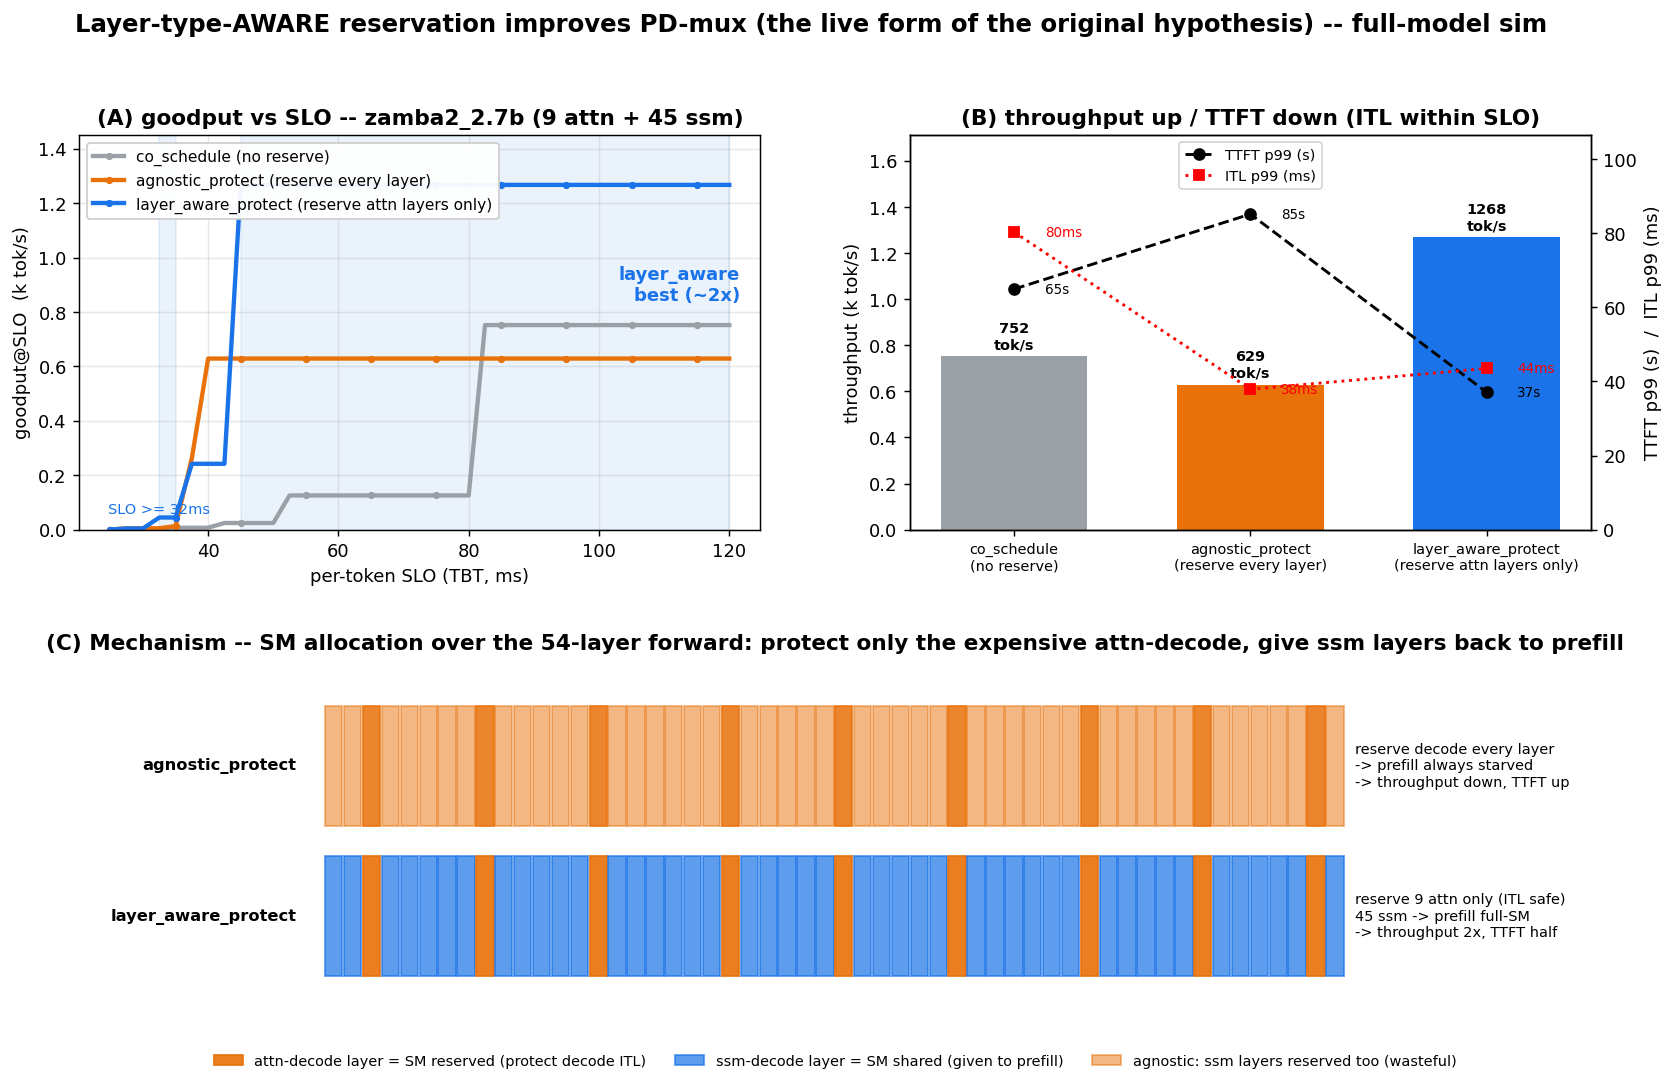
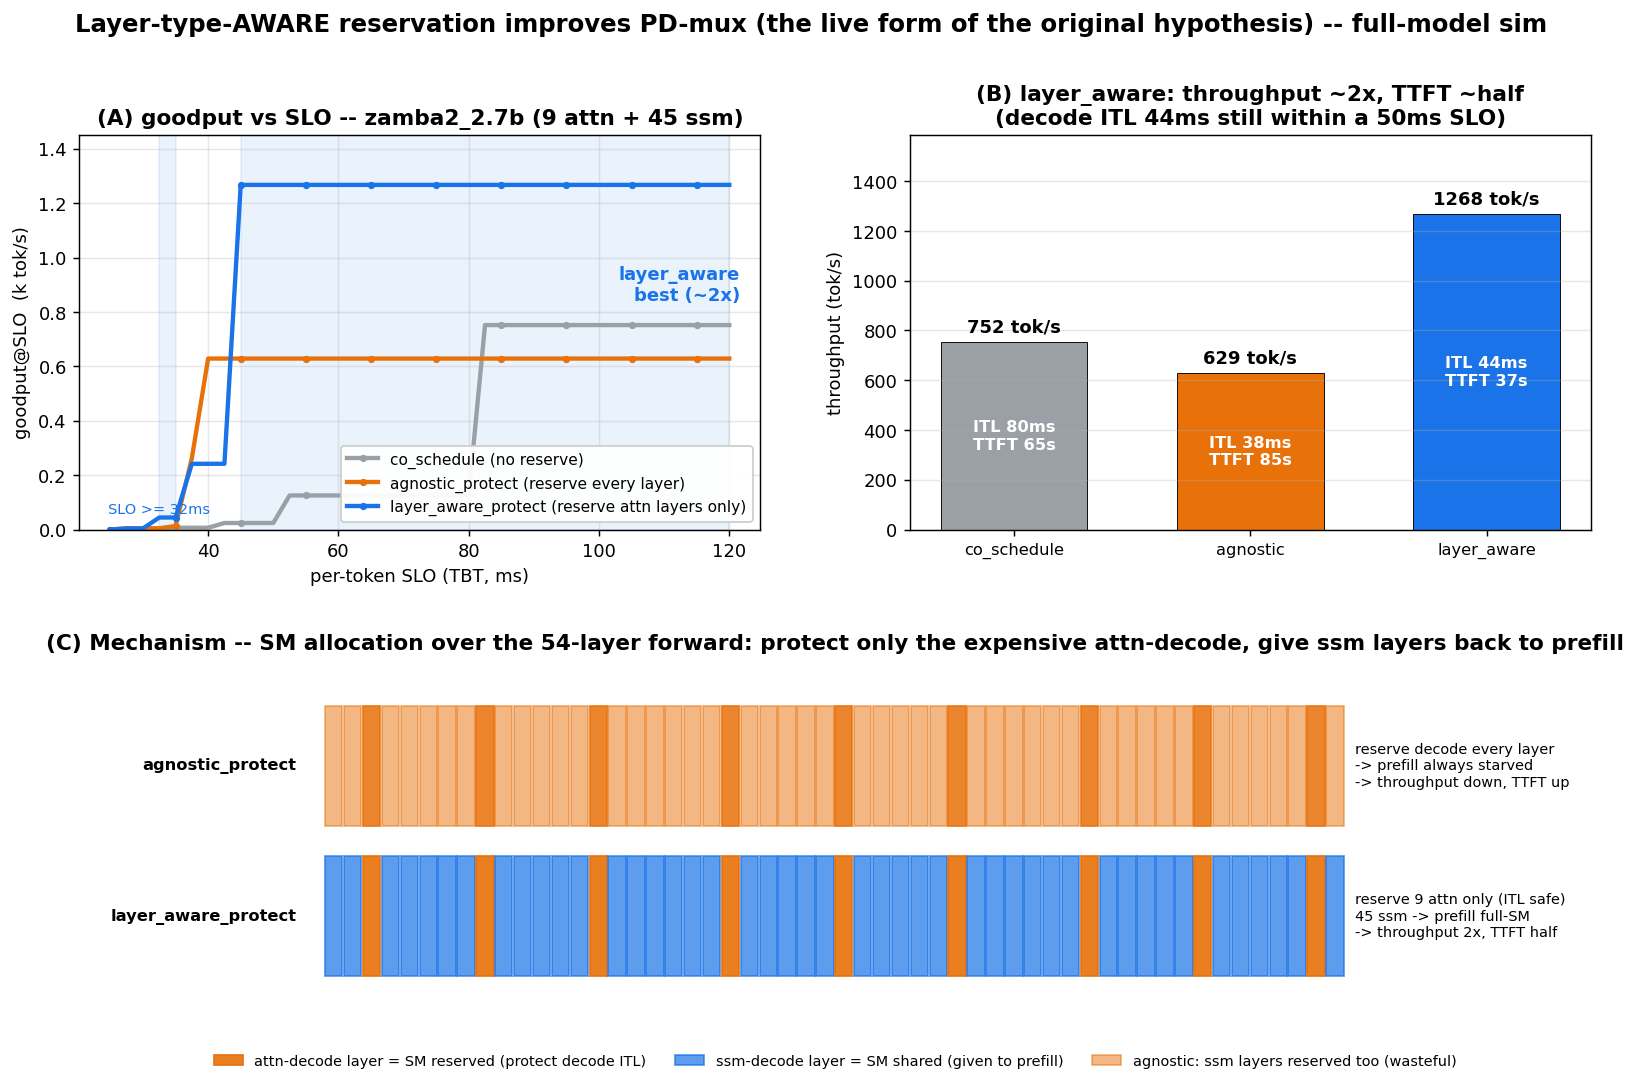
Clean up layer_aware_result figure (visibility)
Panel A: legend was covering the blue layer_aware curve/plateau (upper-left) -> moved to the
empty band at lower-right; data no longer obscured.
Panel B: replaced the overloaded twin-axis (throughput bars + TTFT line + ITL line, 3 units)
with a single-axis throughput bar chart annotating ITL/TTFT inside each bar (white). Much more
readable. Updated narrative critique (B no longer "overloaded").

diff --git a/workspace/characterization/experiments/e6_queue_sim/make_layer_aware_figs.py b/workspace/characterization/experiments/e6_queue_sim/make_layer_aware_figs.py
@@ -84,33 +84,28 @@ if win.any():
 axA.set_xlabel("per-token SLO (TBT, ms)")
 axA.set_ylabel("goodput@SLO  (k tok/s)")
 axA.set_title("(A) goodput vs SLO -- zamba2_2.7b (9 attn + 45 ssm)", fontweight="bold")
-axA.legend(fontsize=8.5, loc="upper left", framealpha=0.95)
+axA.legend(fontsize=8.5, loc="lower right", framealpha=0.95)   # lower-right is the empty band
 axA.grid(alpha=0.3)
 axA.set_ylim(0, 1.45)
 
-# ---- Panel B: tradeoff bars ----
+# ---- Panel B: single-axis throughput bars + ITL/TTFT annotated (no twin-axis) ----
 axB = fig.add_subplot(gs[0, 1])
 x = np.arange(len(POLICIES))
-thr = [summ[p]["throughput_tok_s"] / 1000 for p in POLICIES]
+thr = [summ[p]["throughput_tok_s"] for p in POLICIES]
 ttft = [summ[p]["ttft_p99"] / 1000 for p in POLICIES]
 itl = [summ[p]["itl_p99"] for p in POLICIES]
-w = 0.62
-b = axB.bar(x, thr, w, color=[COL[p] for p in POLICIES])
-axB.set_ylabel("throughput (k tok/s)")
-axB.set_xticks(x); axB.set_xticklabels([LABELS[p] for p in POLICIES], fontsize=8)
-axB.set_title("(B) throughput up / TTFT down (ITL within SLO)", fontweight="bold")
+short = {"co_schedule": "co_schedule", "agnostic_protect": "agnostic", "layer_aware_protect": "layer_aware"}
+bars = axB.bar(x, thr, 0.62, color=[COL[p] for p in POLICIES], edgecolor="k", linewidth=0.5)
 for i, p in enumerate(POLICIES):
-    axB.text(i, thr[i] + 0.02, f"{thr[i]*1000:.0f}\ntok/s", ha="center", va="bottom", fontsize=8, fontweight="bold")
-axB.set_ylim(0, max(thr) * 1.35)
-axB2 = axB.twinx()
-axB2.plot(x, ttft, "k--o", lw=1.6, ms=6, label="TTFT p99 (s)")
-axB2.plot(x, itl, "r:s", lw=1.6, ms=6, label="ITL p99 (ms)")
-for i in range(len(POLICIES)):
-    axB2.text(i + 0.13, ttft[i], f"{ttft[i]:.0f}s", color="k", fontsize=7.5, va="center")
-    axB2.text(i + 0.13, itl[i], f"{itl[i]:.0f}ms", color="r", fontsize=7.5, va="center")
-axB2.set_ylabel("TTFT p99 (s)  /  ITL p99 (ms)")
-axB2.legend(fontsize=8, loc="upper center")
-axB2.set_ylim(0, max(max(ttft), max(itl)) * 1.25)
+    axB.text(i, thr[i] + 25, f"{thr[i]:.0f} tok/s", ha="center", va="bottom", fontsize=10, fontweight="bold")
+    axB.text(i, thr[i] * 0.5, f"ITL {itl[i]:.0f}ms\nTTFT {ttft[i]:.0f}s", ha="center", va="center",
+             fontsize=9, color="white", fontweight="bold")
+axB.set_xticks(x); axB.set_xticklabels([short[p] for p in POLICIES], fontsize=9)
+axB.set_ylabel("throughput (tok/s)")
+axB.set_ylim(0, max(thr) * 1.25)
+axB.set_title("(B) layer_aware: throughput ~2x, TTFT ~half\n(decode ITL 44ms still within a 50ms SLO)",
+              fontweight="bold")
+axB.grid(axis="y", alpha=0.3)
 
 # ---- Panel C: mechanism (per-layer SM allocation) ----
 axC = fig.add_subplot(gs[1, :])

diff --git a/reports/figure_narrative_critique.md b/reports/figure_narrative_critique.md
@@ -30,7 +30,7 @@
 | 그림 | 흐름 위치 | 보여주는 지표 | 차트 형태 | **형태 적합성 (비판)** |
 |---|---|---|---|---|
 | `layer_aware_result` (A) goodput-vs-SLO | S3 주결과 | 연속 SLO 스윕의 goodput | **선그래프 + 우위구간 음영** | ✅ **최적.** 연속 독립변수(SLO)→선이 맞고, 음영으로 우위 영역 명시. 논문 main figure감. |
-| `layer_aware_result` (B) tradeoff | S3 보조 | throughput·TTFT·ITL | 막대+쌍축 2선 | ⚠ **과적재.** 한 패널에 3지표(단위 다름: tok/s·s·ms)를 막대+쌍축으로 → 가독성 낮음. **분리하거나 정규화 권고.** |
+| `layer_aware_result` (B) tradeoff | S3 보조 | throughput(+ITL/TTFT 주석) | 단일축 막대 | ✅ **정리됨**(쌍축 제거). throughput 막대에 ITL/TTFT를 주석으로 → 단일축 가독성 확보. |
 | `layer_aware_result` (C) 메커니즘 | **S2 시스템** | 레이어별 SM 배분 | 도식(레이어 막대) | ✅ 메커니즘 설명엔 도식이 적합. 시스템 절의 핵심 도식. |
 | `layer_aware_size_trend` | S4 | la/agnostic 비(이산 3모델)·정책별 goodput | 막대 / 그룹막대 | ✅ 이산 모델 비교엔 막대 적합. △ 3점으로 "peak" 주장은 약함 → 캡션에 *추세 아닌 3점*임을 명시. |
 | `temporal_vs_spatial` | S5 핵심 | per-layer decode 구조(분리성) | **레이어별 막대** | ✅ **우수.** "비싼 attn이 *어디* 있나(분리 가능?)"를 레이어축 막대로 직접 시각화 → 적용범위 논거에 정확. |
@@ -58,7 +58,7 @@
 5. `framework_comparison`(축 개선) 또는 `vllm_calibration` — 프로덕션 대비/검증
 
 **개선 작업:**
-- (B) tradeoff 패널 → **분리/정규화** (또는 throughput만 막대 + 별도 ITL-vs-SLO).
+- ~~(B) tradeoff 패널 분리/정규화~~ → **완료**(단일축 throughput 막대 + ITL/TTFT 주석).
 - `framework_comparison` → **log y축**(fused 지배로 가려진 예약-정책 차 노출).
 - `summary_dashboard`·`layer_aware_applicability` → **본문 제외**(teaser/부록).
 
